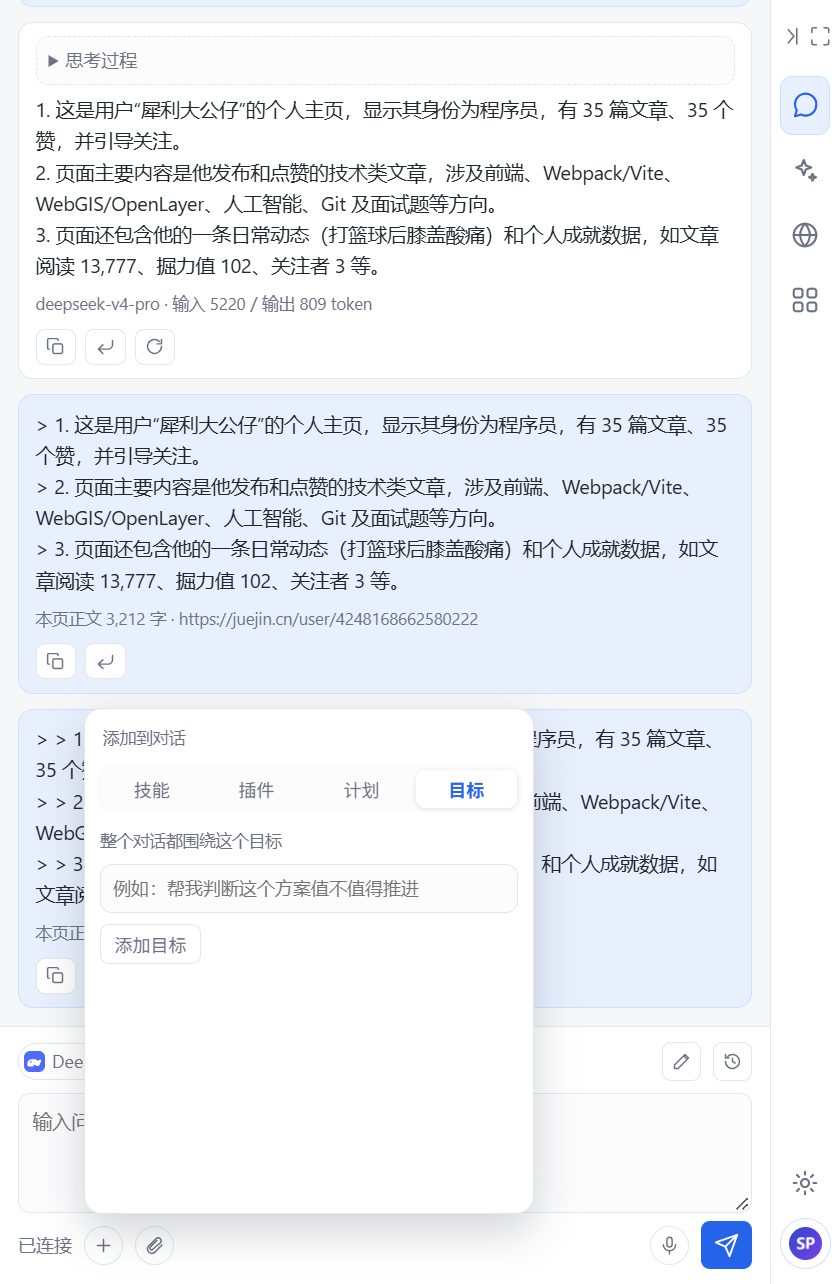
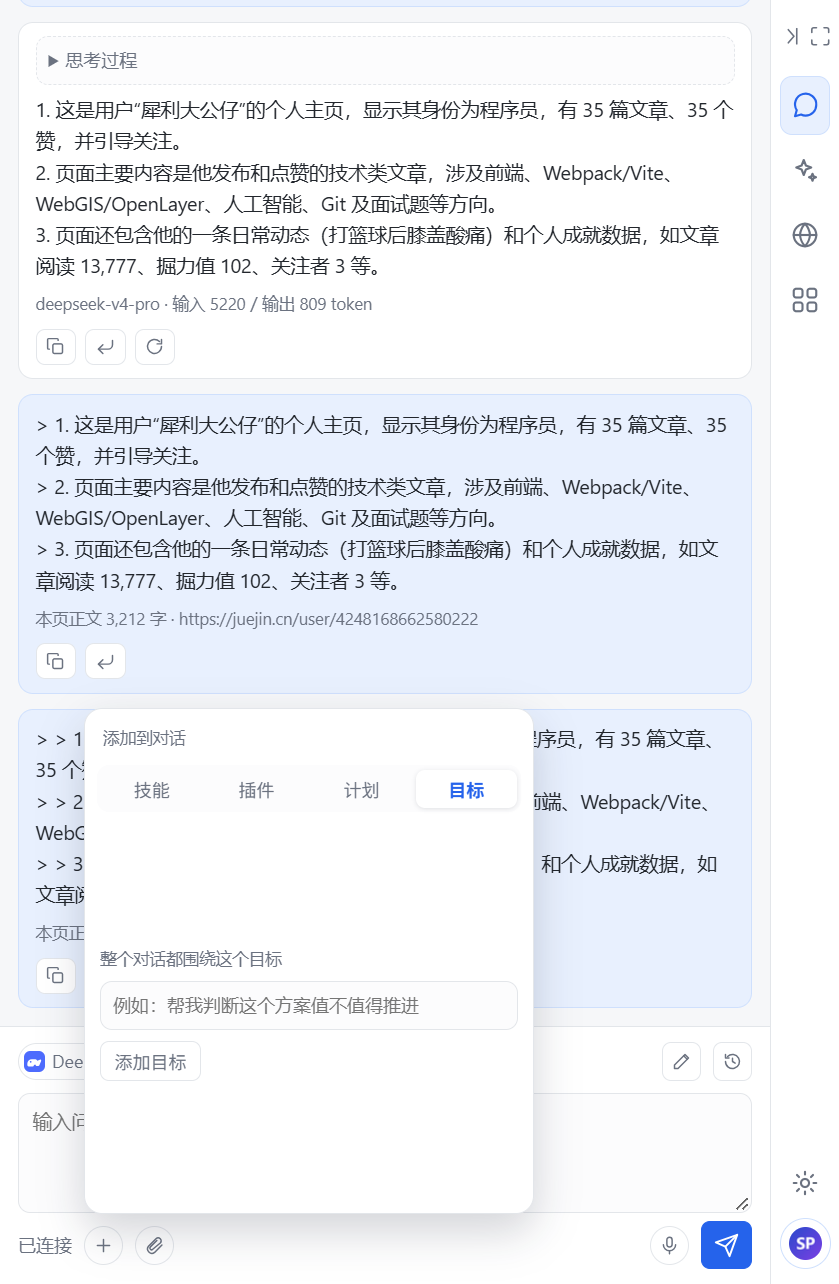
youhua

Changed region(s): [[0.124, 0.6542, 0.4958, 0.8411]]

diff --git a/edge/sidepanel/sidepanel.css b/edge/sidepanel/sidepanel.css
@@ -964,7 +964,6 @@ dialog h2 { margin: 0 0 12px; font-size: 15px; }
 .menu-body {
   display: flex;
   flex-direction: column;
-  justify-content: center;
   gap: 2px;
   min-height: 0;
   overflow-y: auto;

diff --git a/server/Program.cs b/server/Program.cs
@@ -177,6 +177,43 @@ using (var scope = app.Services.CreateScope())
     }
 
     await db.SeedAsync();
+
+    // 首次启动且没有任何管理员时创建初始账号；用户表非空时不再执行，重启不会覆盖已改密码
+    var initialUsername = (app.Configuration["Admin:InitialUsername"] ?? "").Trim();
+    var initialPassword = app.Configuration["Admin:InitialPassword"] ?? "";
+    if (!await db.AdminUsers.AnyAsync())
+    {
+        if (initialUsername.Length == 0 || initialPassword.Length < 8)
+        {
+            logger.LogWarning("未配置 Admin:InitialUsername 或 Admin:InitialPassword，跳过初始管理员创建");
+        }
+        else
+        {
+            var role = await db.AdminRoles.FirstOrDefaultAsync(r => r.IsSystem)
+                ?? await db.AdminRoles.OrderBy(r => r.Id).FirstOrDefaultAsync();
+            if (role is null)
+            {
+                logger.LogWarning("内置角色缺失，跳过初始管理员创建");
+            }
+            else
+            {
+                var initialAdmin = new AdminUser
+                {
+                    Username = initialUsername,
+                    DisplayName = "初始管理员",
+                    RoleId = role.Id,
+                    CreatedAt = DateTime.UtcNow,
+                };
+                initialAdmin.PasswordHash = scope.ServiceProvider
+                    .GetRequiredService<AdminAuth>()
+                    .HashPassword(initialAdmin, initialPassword);
+                db.AdminUsers.Add(initialAdmin);
+                await db.SaveChangesAsync();
+                logger.LogInformation("已创建初始管理员账号 {Username}", initialUsername);
+            }
+        }
+    }
+
     await scope.ServiceProvider.GetRequiredService<ProviderKey>().EnsureSeededAsync(CancellationToken.None);
 }
 

diff --git a/README.md b/README.md
@@ -1,1 +1,239 @@
-新增
+# SP AI 助手
+
+面向国内用户的网页 AI 助手：Edge 侧边栏扩展 + ASP.NET Core 模型网关 + React 管理后台。
+
+用户在网页侧边栏里总结、列大纲、翻译、解释划线、润色改写或直接问答；服务端统一代持各家大模型 Key，按积分计费；运营人员通过后台管理模型、积分、密钥与管理员权限。
+
+## 功能特性
+
+**侧边栏扩展**
+- 网页总结、大纲、翻译、解释、润色，以及自由多轮对话
+- 读取当前页面正文、截图提问、图片问答、语音输入
+- 国产大模型切换，按「高性价比 / 高级 / 最智能」等分类分组展示
+- 积分余额与流水展示，模型不可用时明确提示
+
+**服务端网关**
+- 统一代理智谱、DeepSeek、阿里云百炼、百度千帆、硅基流动
+- KeyEnv 多条目密钥管理，支持新增、启用、废弃、删除，环境变量优先
+- 积分预扣与按量结算，失败自动退回
+- 对话 SSE 流式返回，支持视觉输入与语音转写
+
+**管理后台**
+- 仪表盘：用户、余额、调用与消耗统计
+- 设备管理：搜索设备、查看流水、封禁/解封
+- 积分管理：增加、扣减、直接设为指定余额，手工调账不计入消费统计
+- 模型管理：新增/编辑/删除/废弃，费率、上下文、视觉能力与分类
+- 运营策略：注册赠送积分、对话开关、公告
+- KeyEnv 管理：多密钥轮换、启用与废弃
+- 用户与角色：管理员账号增删改，角色按模块授权（查看/管理）
+
+## 项目结构
+
+```
+sp/
+├─ edge/                 # Edge Manifest V3 扩展（侧边栏 + 页面提取脚本）
+│  ├─ sidepanel/         # 侧边栏页面、样式与逻辑
+│  ├─ content/           # 内容脚本
+│  ├─ shared/            # 正文提取等共享脚本
+│  └─ background.js      # 右键菜单、划词入口、打开侧边栏
+├─ server/               # ASP.NET Core 10 + EF Core + SQLite
+│  ├─ Program.cs         # 路由、鉴权、启动迁移
+│  ├─ Domains/           # 实体
+│  ├─ Services/          # 计费、模型网关、密钥解析、管理员鉴权
+│  ├─ Data/              # DbContext 与种子
+│  ├─ wwwroot/admin/     # 后台构建产物（gitignore）
+│  └─ appsettings.json
+├─ admin/                # React 18 + Vite + Ant Design 管理后台
+└─ tests-web/            # 本地验证脚本与截图（开发辅助，非运行必需）
+```
+
+## 快速开始
+
+### 环境要求
+
+- .NET SDK 10
+- Node.js 20+（构建管理后台）
+- Edge / Chrome（加载未打包扩展）
+
+### 1. 启动后端
+
+```bash
+cd server
+dotnet run
+```
+
+默认监听 `http://127.0.0.1:5080`，首次启动会自动创建 SQLite 数据库 `server/sp.db`、表结构与内置角色，并写入种子模型。
+
+健康检查：`GET http://127.0.0.1:5080/health`
+
+### 2. 启动管理后台
+
+开发模式（Vite 5174，`/api` 代理到 5080）：
+
+```bash
+cd admin
+npm install
+npm run dev
+```
+
+构建到后端托管目录，之后访问 `http://127.0.0.1:5080/admin/`：
+
+```bash
+npm run build:server
+```
+
+> `server/wwwroot/admin` 已在 gitignore 中，每次更新后台代码后都需要重新构建。
+
+### 3. 加载 Edge 扩展
+
+1. 打开 `edge://extensions`，开启“开发人员模式”
+2. 选择“加载解压缩的扩展”，指向仓库的 `edge/` 目录
+3. 点击工具栏图标打开侧边栏，在设置里把服务地址改为后端地址
+4. 修改扩展代码后，在扩展管理页点“重新加载”
+
+扩展需要站点访问权限才能读取网页正文；若提示无法读取页面，请检查扩展的“网站访问权限”。
+
+## 管理员登录与初始化
+
+系统**不预置任何管理员账号和密码**。首次部署有两种进入方式：
+
+**方式一：应急密钥（Admin__Key）**
+
+启动后端时通过环境变量或配置提供：
+
+```bash
+# 示例：临时启动
+Admin__Key=请换成强随机串 dotnet run
+```
+
+```json
+// 或 appsettings.json
+"Admin": { "Key": "请换成强随机串" }
+```
+
+登录页切到“应急密钥”页签输入即可，权限等同全部模块。未配置时该方式不可用。
+
+**方式二：创建账号后使用账号登录**
+
+用应急密钥调用管理接口创建账号：
+
+```bash
+curl -X POST http://127.0.0.1:5080/api/admin/users \
+  -H "X-Admin-Key: $Admin__Key" \
+  -H "Content-Type: application/json" \
+  -d '{"username":"admin","displayName":"管理员","roleId":1,"password":"请换成强密码"}'
+```
+
+`roleId=1` 为内置“超级管理员”。之后在登录页使用「账号登录」，会话 12 小时过期。
+
+内置角色：
+
+| 角色 | 权限范围 |
+| --- | --- |
+| 超级管理员 | 全部模块（系统内置，不可删除/改权限） |
+| 运营 | 设备、积分的查看与管理，模型、策略、KeyEnv |
+| 只读 | 各模块只读 |
+
+密码使用 ASP.NET Core `PasswordHasher` 哈希存储，无法反查；忘记密码只能由其他管理员重置。
+
+## 配置说明
+
+后端配置位于 `server/appsettings.json`，也支持环境变量（`Section__Key` 形式，如 `Admin__Key`）。
+
+| 配置项 | 说明 | 默认 |
+| --- | --- | --- |
+| `ConnectionStrings:Db` | SQLite 连接串 | `Data Source=sp.db` |
+| `Server:Host` / `Server:Port` | 监听地址与端口 | `127.0.0.1:5080` |
+| `AllowedOrigins` | CORS 白名单数组；留空则放开所有来源 | 空 |
+| `MaxOutputTokens` | 单次回复最大 token | `1024` |
+| `Transcribe:Enabled` | 是否开放语音转写 | `true` |
+| `Transcribe:Provider` / `Model` | 语音转写提供商与模型 | dashscope / qwen3-asr-flash |
+| `Transcribe:CreditsPerCall` | 每次转写扣分 | `3` |
+| `Admin:Key` | 应急管理密钥，留空则禁用 | 空 |
+| `Providers:{name}:BaseUrl` | 各提供商接口地址 | 见配置文件 |
+| `Providers:{name}:KeyEnv` | 各提供商读取的密钥环境变量名 | `{PROVIDER}_API_KEY` |
+| `Security:KeysPath` | Data Protection 密钥目录 | `keys` |
+
+`appsettings.Production.json` 中把监听地址设为 `0.0.0.0:7788`，使用 `ASPNETCORE_ENVIRONMENT=Production` 启动即可对外提供服务。
+
+### 提供商密钥
+
+密钥解析顺序：
+
+1. 环境变量（如 `DEEPSEEK_API_KEY`）
+2. 数据库中启用的 KeyEnv 条目（后台录入，Data Protection 加密保存）
+
+环境变量优先，适合在服务器上通过系统环境注入；日常轮换可在后台“KeyEnv 管理”里新增条目并启用。明文密钥只在内存中出现，不写日志、不进流水。
+
+## 计费规则
+
+- 新设备注册赠送积分由“运营策略”里的 `FreeCredits` 决定（默认 1000）
+- 文本按千 token 向上取整计费：`ceil(tokens / 1000) × 单价`，输入与输出分别计算
+- 图片按约 800 token/张估算；语音转写按次固定扣分
+- 对话失败或用户中止时按实际用量结算，多预扣部分自动退回
+- 后台手工调分（增加/扣减/设为余额）计入流水，但不计入“累计消耗/调用次数”
+- 模型单价、上下文上限、启用状态与分类都在后台“模型管理”中维护
+
+## API 概览
+
+公开接口：
+
+| 方法 | 路径 | 说明 |
+| --- | --- | --- |
+| GET | `/health` | 健康检查 |
+| POST | `/api/device/register` | 设备注册，返回访问 token 与初始余额 |
+| GET | `/api/config` | 模型列表、费率、公告、语音配置 |
+| GET | `/api/credits` | 当前余额与最近流水 |
+| POST | `/api/chat` | 对话（SSE 流式） |
+| POST | `/api/transcribe` | 语音转写（multipart 文件） |
+
+管理接口位于 `/api/admin/*`，通过 `X-Admin-Token`（账号登录）或 `X-Admin-Key`（应急密钥）鉴权，按模块权限校验：
+
+- `auth/*`、`stats`
+- `devices/*`、`credits/*`
+- `models/*`、`model-providers`
+- `policy`
+- `providers/*`、`keyenvs/*`
+- `users/*`、`roles/*`
+
+## 数据与迁移
+
+- 数据库为单文件 SQLite，默认 `server/sp.db`，`*.db` 已被 gitignore
+- 启动时执行 `EnsureCreated()`，并幂等补齐老库缺失的表与列（如 `IsDeprecated`、`Category`）
+- 老库新增列时只会回填一次种子模型的默认值，不会覆盖后台已修改的数据
+- 修改后端表结构后需要重启后端才会应用迁移
+- Data Protection 密钥默认在 `server/keys`，用于解密数据库中的提供商密钥；丢失后需要重新录入所有 Key，务必只保留在服务器上
+
+## 部署建议
+
+- 对外部署时设置 `AllowedOrigins` 为固定的扩展来源（如 `chrome-extension://<扩展ID>`），并启用 HTTPS
+- 使用强随机 `Admin__Key`，或配置完账号后将其清空并只保留账号登录
+- 按最小权限为运营人员分配角色，不要共用超级管理员账号
+- 反向代理（Nginx / Caddy）转发到 `5080` 或 `7788`，注意 SSE 需要关闭缓冲
+- 备份 `sp.db` 与 `server/keys`，两者需配套，只备份数据库无法解密密钥
+
+## 常见问题
+
+**后台打开是 404 或旧页面**
+
+执行 `cd admin && npm run build:server`，并确认 `server/wwwroot/admin/index.html` 存在。
+
+**登录页没有可用账号**
+
+系统不预置账号：先用 `Admin__Key` 登录，或在服务端用应急密钥创建账号。
+
+**插件提示连不上服务**
+
+检查侧边栏设置里的服务地址、后端是否监听该地址，以及 `AllowedOrigins` 是否允许扩展来源。
+
+**扩展提示无法读取页面**
+
+在 `edge://extensions` 的扩展详情里确认“网站访问权限”覆盖当前站点。
+
+**插件显示“服务已暂停”或模型列表为空**
+
+检查“运营策略”里对话是否开启，以及“KeyEnv 管理”里对应提供商是否有启用且可用的密钥。
+
+**改了代码但行为没变化**
+
+后端需重启；扩展需在扩展管理页重新加载；后台需重新构建并强刷页面。
